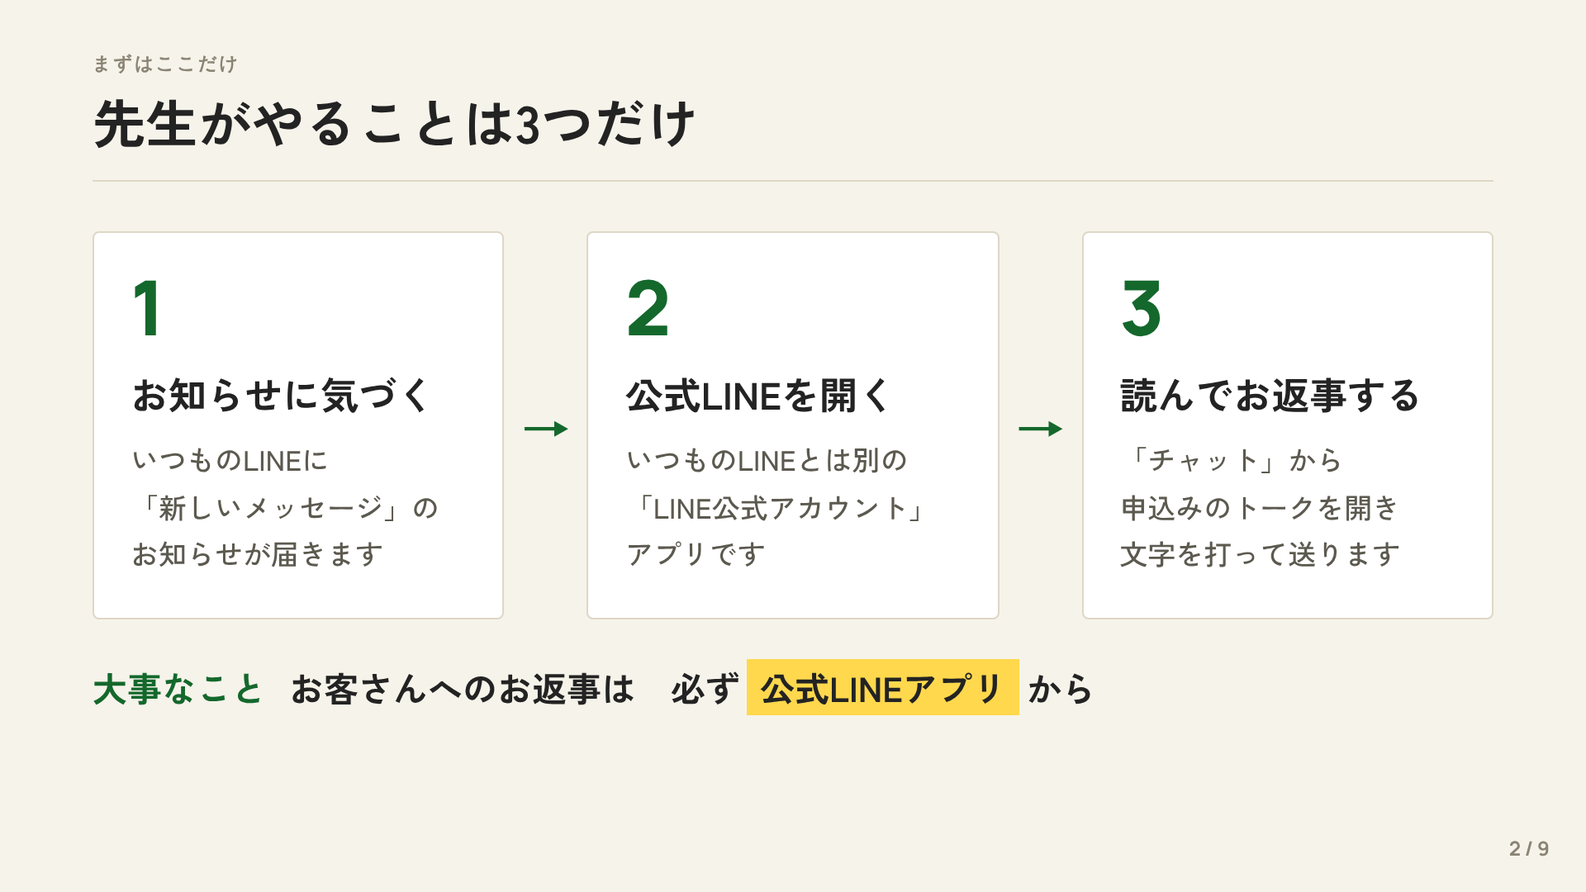
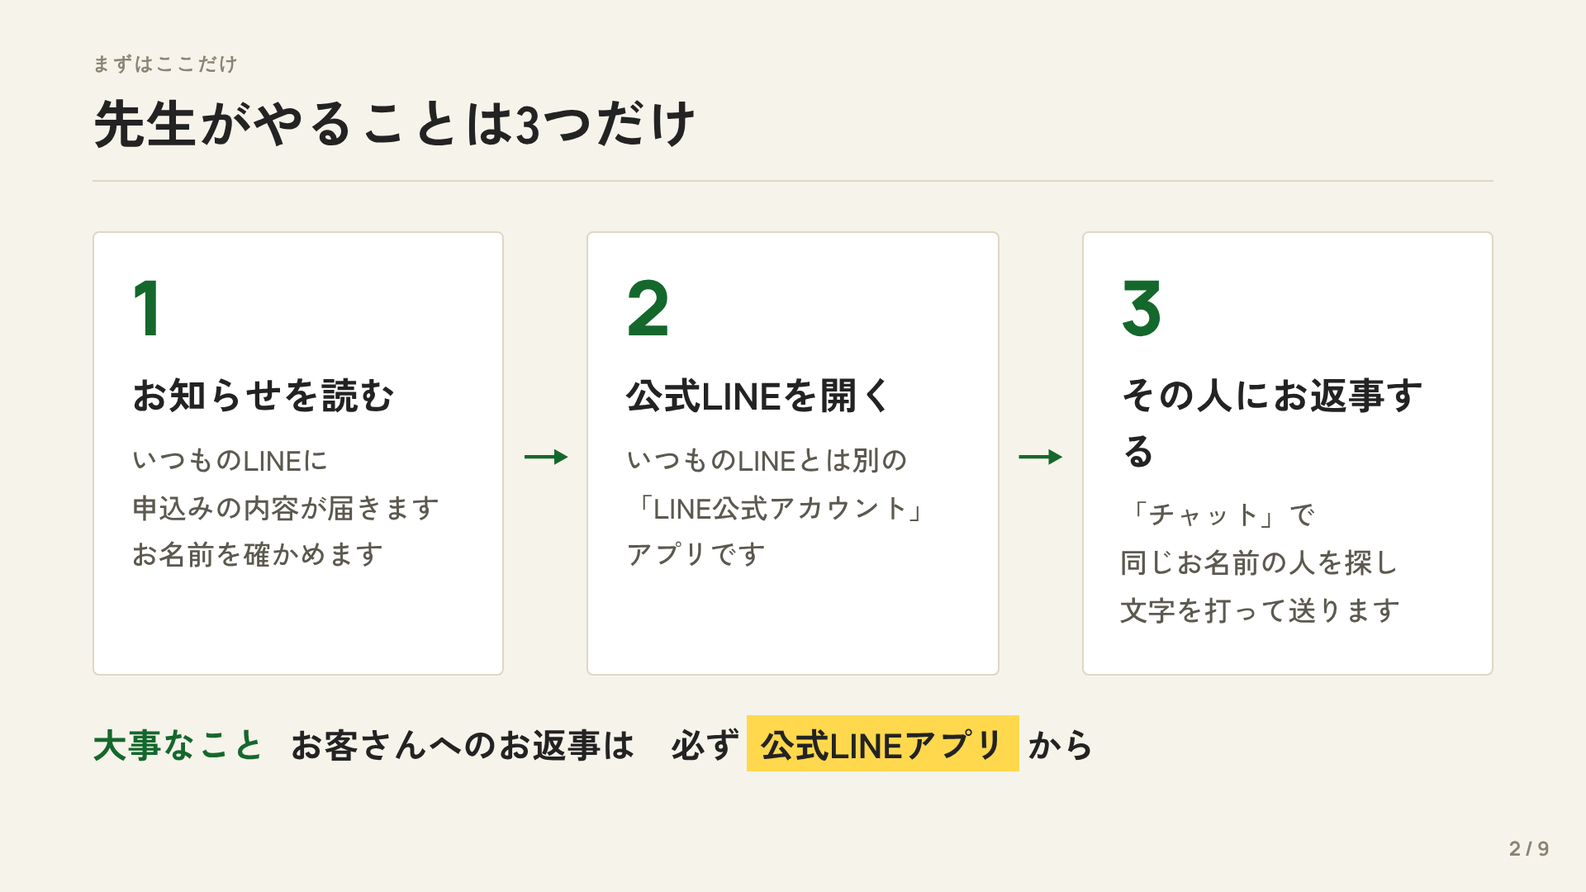
Update LINE guide to rich-menu and Google Form flow
Claude-Session: https://claude.ai/code/session_01Mzb1Hx17efy9YKD36c3ttC

diff --git a/slides/line-reply-guide.html b/slides/line-reply-guide.html
@@ -105,8 +105,8 @@
     <div style="display:flex;align-items:stretch;gap:10px">
       <div style="flex:1;background:var(--surface);border:1px solid var(--line);border-radius:var(--radius);padding:22px 22px 24px">
         <div style="font-family:var(--ff-en);font-weight:800;font-size:46px;color:var(--accent-deep);line-height:1">1</div>
-        <div style="font-size:23px;font-weight:700;margin:12px 0 8px;min-height:1.5em">お知らせに気づく</div>
-        <div style="font-size:17px;color:var(--sub);line-height:1.7">いつものLINEに<br>「新しいメッセージ」の<br>お知らせが届きます</div>
+        <div style="font-size:23px;font-weight:700;margin:12px 0 8px;min-height:1.5em">お知らせを読む</div>
+        <div style="font-size:17px;color:var(--sub);line-height:1.7">いつものLINEに<br>申込みの内容が届きます<br>お名前を確かめます</div>
       </div>
       <div style="display:flex;align-items:center;font-size:30px;color:var(--accent-deep);font-weight:700">→</div>
       <div style="flex:1;background:var(--surface);border:1px solid var(--line);border-radius:var(--radius);padding:22px 22px 24px">
@@ -117,8 +117,8 @@
       <div style="display:flex;align-items:center;font-size:30px;color:var(--accent-deep);font-weight:700">→</div>
       <div style="flex:1;background:var(--surface);border:1px solid var(--line);border-radius:var(--radius);padding:22px 22px 24px">
         <div style="font-family:var(--ff-en);font-weight:800;font-size:46px;color:var(--accent-deep);line-height:1">3</div>
-        <div style="font-size:23px;font-weight:700;margin:12px 0 8px;min-height:1.5em">読んでお返事する</div>
-        <div style="font-size:17px;color:var(--sub);line-height:1.7">「チャット」から<br>申込みのトークを開き<br>文字を打って送ります</div>
+        <div style="font-size:23px;font-weight:700;margin:12px 0 8px;min-height:1.5em">その人にお返事する</div>
+        <div style="font-size:17px;color:var(--sub);line-height:1.7">「チャット」で<br>同じお名前の人を探し<br>文字を打って送ります</div>
       </div>
     </div>
     <div style="display:flex;align-items:center;gap:14px;font-size:21px;font-weight:700">
@@ -132,26 +132,27 @@
 <!-- 3 全体の流れ：お客さん → 先生 -->
 <div class="s">
   <div class="hd"><div class="ki">ぜんたいの流れ</div><h2>お客さんの動きと先生の動き</h2><div class="rule"></div></div>
-  <div class="bd" style="padding-top:16px">
-    <div style="flex:1;display:grid;grid-template-columns:1fr 150px 1fr;grid-template-rows:30px repeat(7,40px);row-gap:7px;column-gap:0;font-size:17px;font-weight:700">
+  <div class="bd" style="padding-top:14px;padding-bottom:28px">
+    <div style="flex:1;display:grid;grid-template-columns:1fr 130px 1fr;grid-template-rows:26px repeat(8,36px);row-gap:6px;font-size:17px;font-weight:700">
       <div style="grid-column:1;grid-row:1;font-size:15px;color:var(--sub)">お客さん（スマホ）</div>
       <div style="grid-column:3;grid-row:1;font-size:15px;color:var(--accent-deep)">先生（スマホ）</div>
 
-      <div style="grid-column:1;grid-row:2;background:var(--surface);border:1px solid var(--line);border-radius:var(--radius);display:flex;align-items:center;padding:0 16px">ホームページを見る</div>
-      <div style="grid-column:1;grid-row:3;text-align:center;color:var(--dim);font-size:16px;line-height:40px">↓</div>
-      <div style="grid-column:1;grid-row:4;background:var(--surface);border:1px solid var(--line);border-radius:var(--radius);display:flex;align-items:center;padding:0 16px">教室の公式LINEを友だち追加</div>
-      <div style="grid-column:1;grid-row:5;text-align:center;color:var(--dim);font-size:16px;line-height:40px">↓</div>
-      <div style="grid-column:1;grid-row:6;background:var(--surface);border:1px solid var(--line);border-radius:var(--radius);display:flex;align-items:center;padding:0 16px">「体験を申し込む」ボタンを押す</div>
+      <div style="grid-column:1;grid-row:2;background:var(--surface);border:1px solid var(--line);border-radius:var(--radius);display:flex;align-items:center;gap:10px;padding:0 14px"><span style="font-family:var(--ff-en);color:var(--dim)">A</span>教室の公式LINEを友だち追加</div>
+      <div style="grid-column:1;grid-row:3;background:var(--surface);border:1px solid var(--line);border-radius:var(--radius);display:flex;align-items:center;gap:10px;padding:0 14px"><span style="font-family:var(--ff-en);color:var(--dim)">B</span>メニュー「最初のメッセージ」を押す</div>
+      <div style="grid-column:1;grid-row:4;background:var(--surface);border:1px solid var(--line);border-radius:var(--radius);display:flex;align-items:center;gap:10px;padding:0 14px"><span style="font-family:var(--ff-en);color:var(--dim)">C</span>メニュー「体験申込み」を押す</div>
+      <div style="grid-column:1;grid-row:5;background:var(--surface);border:1px solid var(--line);border-radius:var(--radius);display:flex;align-items:center;gap:10px;padding:0 14px"><span style="font-family:var(--ff-en);color:var(--dim)">D</span>申込みフォームに書いて送る</div>
 
-      <div style="grid-column:2;grid-row:6;display:flex;flex-direction:column;align-items:center;justify-content:center;color:var(--accent-deep);line-height:1.1">
-        <span style="font-size:13px">申込みが届く</span><span style="font-size:24px">→</span>
+      <div style="grid-column:2;grid-row:5;display:flex;flex-direction:column;align-items:center;justify-content:center;color:var(--accent-deep);line-height:1.1">
+        <span style="font-size:13px">申込みが届く</span><span style="font-size:22px">→</span>
       </div>
 
-      <div style="grid-column:3;grid-row:4;background:var(--accent-tint);border-radius:var(--radius);display:flex;align-items:center;gap:10px;padding:0 14px"><span class="no sm">1</span>いつものLINEにお知らせ</div>
-      <div style="grid-column:3;grid-row:5;background:var(--accent-tint);border-radius:var(--radius);display:flex;align-items:center;gap:10px;padding:0 14px"><span class="no sm">2</span>公式LINEアプリを開く</div>
-      <div style="grid-column:3;grid-row:6;background:var(--accent-tint);border-radius:var(--radius);display:flex;align-items:center;gap:10px;padding:0 14px"><span class="no sm">3</span>下の「チャット」を押す</div>
-      <div style="grid-column:3;grid-row:7;background:var(--accent-tint);border-radius:var(--radius);display:flex;align-items:center;gap:10px;padding:0 14px"><span class="no sm">4</span>申込みのトークを開く</div>
-      <div style="grid-column:3;grid-row:8;background:var(--accent-tint);border-radius:var(--radius);display:flex;align-items:center;gap:10px;padding:0 14px"><span class="no sm">5</span>お返事を書いて送る</div>
+      <div style="grid-column:3;grid-row:5;background:var(--accent-tint);border-radius:var(--radius);display:flex;align-items:center;gap:10px;padding:0 14px"><span class="no sm">1</span>いつものLINEにお知らせ</div>
+      <div style="grid-column:3;grid-row:6;background:var(--accent-tint);border-radius:var(--radius);display:flex;align-items:center;gap:10px;padding:0 14px"><span class="no sm">2</span>公式LINEアプリを開く</div>
+      <div style="grid-column:3;grid-row:7;background:var(--accent-tint);border-radius:var(--radius);display:flex;align-items:center;gap:10px;padding:0 14px"><span class="no sm">3</span>下の「チャット」を押す</div>
+      <div style="grid-column:3;grid-row:8;background:var(--accent-tint);border-radius:var(--radius);display:flex;align-items:center;gap:10px;padding:0 14px"><span class="no sm">4</span>同じお名前のトークを開く</div>
+      <div style="grid-column:3;grid-row:9;background:var(--accent-tint);border-radius:var(--radius);display:flex;align-items:center;gap:10px;padding:0 14px"><span class="no sm">5</span>お返事を書いて送る</div>
+
+      <div style="grid-column:1;grid-row:7 / span 3;font-size:15px;font-weight:500;color:var(--sub);line-height:1.7;align-self:center">B を押してもらうと<br>先生からお返事できるようになります</div>
     </div>
   </div>
   <div class="pn">3 / 9</div>
@@ -162,27 +163,28 @@
   <div class="hd"><div class="ki">参考 ／ お客さんの画面</div><h2>お客さんのスマホでの見え方</h2><div class="rule"></div></div>
   <div class="bd" style="gap:36px;align-items:center;justify-content:center;padding-top:12px">
     <div class="ann" style="width:270px">
-      <div class="it"><span class="no">1</span><div><div class="t">友だち追加すると<br>あいさつが自動で届く</div><div class="d">教室からの<br>最初のメッセージです</div></div></div>
-      <div class="it"><span class="no">2</span><div><div class="t">お客さんがボタンを押す</div><div class="d">文字を打たなくても<br>申込みができます</div></div></div>
+      <div class="it"><span class="no">1</span><div><div class="t">まず<br>「最初のメッセージ」</div><div class="d">押すと教室にひとこと届き<br>先生とやりとりできる<br>ようになります</div></div></div>
     </div>
     <div style="display:flex;flex-direction:column;align-items:center">
       <div class="phone"><div class="scr" data-swap="screens/04-customer.png">
         <div class="bar"></div>
         <div class="scr-hd">大館 からだの調律時間</div>
         <div class="chat">
-          <div class="bub">友だち追加ありがとうございます。体験のお申込みは、下のボタンを押してください。
-            <div style="margin-top:7px;border:1px solid var(--accent-deep);color:var(--accent-deep);text-align:center;padding:5px 0;border-radius:var(--radius);font-weight:700;position:relative">体験を申し込む</div>
-          </div>
-          <div class="bub me">体験に申し込みたいです</div>
+          <div class="bub">友だち追加ありがとうございます。下のメニューからどうぞ。</div>
+          <div class="bub me">よろしくお願いします</div>
         </div>
-        <span class="no sm tag" style="top:64px;right:6px">1</span>
-        <span class="no sm tag" style="top:166px;left:2px">2</span>
-        <span class="no sm tag" style="top:236px;left:14px">3</span>
+        <div style="display:grid;grid-template-columns:1fr 1fr;height:84px;border-top:1px solid var(--line)">
+          <div style="display:flex;align-items:center;justify-content:center;text-align:center;font-weight:700;font-size:12px;line-height:1.4;border-right:1px solid var(--line);background:var(--accent-tint)">最初の<br>メッセージ</div>
+          <div style="display:flex;align-items:center;justify-content:center;text-align:center;font-weight:700;font-size:12px;line-height:1.4">体験<br>申込み</div>
+        </div>
+        <span class="no sm tag" style="bottom:58px;left:6px">1</span>
+        <span class="no sm tag" style="bottom:58px;right:6px">2</span>
       </div></div>
       <div class="demo">※ 画面はイメージ・文面は仮です</div>
     </div>
     <div class="ann" style="width:270px">
-      <div class="it"><span class="no">3</span><div><div class="t">この一言が<br>先生に届きます</div><div class="d">これが「体験の申込み」の<br>合図です</div></div></div>
+      <div class="it"><span class="no">2</span><div><div class="t">次に「体験申込み」</div><div class="d">申込みフォームが開きます</div></div></div>
+      <div class="it"><span class="no">3</span><div><div class="t">フォームを送ると<br>先生にお知らせが届く</div><div class="d">これが「体験の申込み」の<br>合図です</div></div></div>
     </div>
   </div>
   <div class="pn">4 / 9</div>
@@ -190,30 +192,27 @@
 
 <!-- 5 STEP1 お知らせ -->
 <div class="s">
-  <div class="hd"><div class="ki"><b>STEP 1</b>　お知らせに気づく</div><h2>いつものLINEに届くお知らせ</h2><div class="rule"></div></div>
+  <div class="hd"><div class="ki"><b>STEP 1</b>　お知らせを読む</div><h2>いつものLINEに届く申込みのお知らせ</h2><div class="rule"></div></div>
   <div class="bd" style="gap:36px;align-items:center;justify-content:center;padding-top:12px">
     <div class="ann" style="width:270px">
-      <div class="it"><span class="no">1</span><div><div class="t">「LINE公式アカウント」<br>からのお知らせ</div><div class="d">申込みがあると<br>ここにトークが届きます</div></div></div>
+      <div class="it"><span class="no">1</span><div><div class="t">申込みの内容が届く</div><div class="d">お名前・希望のクラスなどが<br>書かれています</div></div></div>
+      <div class="it"><span class="no">2</span><div><div class="t">LINEのお名前を<br>覚えておく</div><div class="d">STEP 3 でこの名前を<br>探します</div></div></div>
     </div>
     <div style="display:flex;flex-direction:column;align-items:center">
       <div class="phone"><div class="scr" data-swap="screens/05-notice.png">
         <div class="bar"></div>
-        <div class="scr-hd">トーク</div>
-        <div style="flex:1;display:flex;flex-direction:column">
-          <div style="display:flex;gap:8px;align-items:center;padding:10px 10px;border-bottom:1px solid var(--line);background:var(--accent-tint)">
-            <span style="width:30px;height:30px;border-radius:50%;background:var(--accent);flex:none"></span>
-            <div style="flex:1;min-width:0"><div style="font-weight:700;font-size:12px">LINE公式アカウント</div><div style="color:var(--sub);font-size:12px;line-height:1.4">新しいメッセージが届いています</div></div>
-          </div>
-          <div style="display:flex;gap:8px;align-items:center;padding:10px;border-bottom:1px solid var(--line)"><span style="width:30px;height:30px;border-radius:50%;background:var(--line);flex:none"></span><div style="flex:1"><div style="height:8px;width:60%;background:var(--line);border-radius:var(--radius)"></div><div style="height:8px;width:85%;background:var(--line);border-radius:var(--radius);margin-top:6px"></div></div></div>
-          <div style="display:flex;gap:8px;align-items:center;padding:10px;border-bottom:1px solid var(--line)"><span style="width:30px;height:30px;border-radius:50%;background:var(--line);flex:none"></span><div style="flex:1"><div style="height:8px;width:50%;background:var(--line);border-radius:var(--radius)"></div><div style="height:8px;width:75%;background:var(--line);border-radius:var(--radius);margin-top:6px"></div></div></div>
+        <div class="scr-hd">申込みのお知らせ</div>
+        <div class="chat">
+          <div class="bub" style="max-width:92%">【体験の申込み】<br>お名前：大館 花子<br>LINEの名前：はなこ<br>希望：木曜 13:30</div>
         </div>
-        <span class="no sm tag" style="top:36px;right:6px">1</span>
+        <div style="height:46px;border-top:1px solid var(--line)"></div>
+        <span class="no sm tag" style="top:60px;right:4px">1</span>
+        <span class="no sm tag" style="top:112px;right:4px">2</span>
       </div></div>
       <div class="demo">※ 画面はイメージ・文面は仮です</div>
     </div>
     <div class="ann" style="width:270px">
-      <div class="it"><span class="no">2</span><div><div class="t">ここは「お知らせ」だけ</div><div class="d">ここに返事を書いても<br>お客さんには届きません</div></div></div>
-      <div class="it"><span class="no">3</span><div><div class="t">気づいたら STEP 2 へ</div><div class="d">公式LINEアプリを開きます</div></div></div>
+      <div class="it"><span class="no">3</span><div><div class="t">ここは「お知らせ」だけ</div><div class="d">ここに返事を書いても<br>お客さんには届きません</div></div></div>
     </div>
   </div>
   <div class="pn">5 / 9</div>
@@ -236,7 +235,7 @@
         <svg width="64" height="64" viewBox="0 0 64 64" style="flex:none"><rect width="64" height="64" rx="14" fill="var(--accent)"/><g transform="translate(16 16)" fill="none" stroke="#fff" stroke-width="2" stroke-linecap="round" stroke-linejoin="round"><svg width="32" height="32" viewBox="0 0 24 24"><path d="M7.9 20A9 9 0 1 0 4 16.1L2 22Z"/><path d="M9 10h6"/><path d="M12 7v6"/></svg></g></svg>
         <div><div style="font-size:15px;color:var(--accent-on-dark);font-weight:700">教室用</div><div style="font-size:26px;font-weight:700">LINE公式アカウント</div></div>
       </div>
-      <div style="font-size:18px;line-height:1.8">・教室としてのやりとり<br>・申込みの<b>中身</b>を読む</div>
+      <div style="font-size:18px;line-height:1.8">・お客さんとのトーク<br>・申込んだ人を<b>探して</b>お返事</div>
       <div style="font-size:19px;font-weight:700;color:var(--accent-on-dark);border-top:1px solid var(--line-on-dark);padding-top:14px">◯　お返事はこちらから</div>
     </div>
   </div>
@@ -246,11 +245,11 @@
 
 <!-- 7 STEP3・4 チャット → トーク -->
 <div class="s">
-  <div class="hd"><div class="ki"><b>STEP 3・4</b>　チャットを開く</div><h2>「チャット」から申込みのトークへ</h2><div class="rule"></div></div>
+  <div class="hd"><div class="ki"><b>STEP 3・4</b>　申込んだ人を探す</div><h2>「チャット」で同じお名前を探す</h2><div class="rule"></div></div>
   <div class="bd" style="gap:36px;align-items:center;justify-content:center;padding-top:12px">
     <div class="ann" style="width:270px">
       <div class="it"><span class="no">1</span><div><div class="t">いちばん下の<br>「チャット」を押す</div><div class="d">お客さんとのトークが<br>ならんでいます</div></div></div>
-      <div class="it"><span class="no">2</span><div><div class="t">印のついた人を押す</div><div class="d">まだ読んでいないトークに<br>緑の丸がつきます</div></div></div>
+      <div class="it"><span class="no">2</span><div><div class="t">お知らせと同じ<br>お名前の人を押す</div></div></div>
     </div>
     <div style="display:flex;flex-direction:column;align-items:center">
       <div class="phone"><div class="scr" data-swap="screens/07-chat-list.png">
@@ -259,8 +258,7 @@
         <div style="flex:1;display:flex;flex-direction:column">
           <div style="display:flex;gap:8px;align-items:center;padding:10px;border-bottom:1px solid var(--line);background:var(--accent-tint)">
             <span style="width:30px;height:30px;border-radius:50%;background:var(--line);flex:none"></span>
-            <div style="flex:1;min-width:0"><div style="font-weight:700;font-size:12px">Aさん</div><div style="color:var(--sub);font-size:12px;line-height:1.4">体験に申し込みたいです</div></div>
-            <span style="width:10px;height:10px;border-radius:50%;background:var(--accent);flex:none"></span>
+            <div style="flex:1;min-width:0"><div style="font-weight:700;font-size:12px">はなこ</div><div style="color:var(--sub);font-size:12px;line-height:1.4">よろしくお願いします</div></div>
           </div>
           <div style="display:flex;gap:8px;align-items:center;padding:10px;border-bottom:1px solid var(--line)"><span style="width:30px;height:30px;border-radius:50%;background:var(--line);flex:none"></span><div style="flex:1"><div style="height:8px;width:55%;background:var(--line);border-radius:var(--radius)"></div><div style="height:8px;width:80%;background:var(--line);border-radius:var(--radius);margin-top:6px"></div></div></div>
           <div style="display:flex;gap:8px;align-items:center;padding:10px;border-bottom:1px solid var(--line)"><span style="width:30px;height:30px;border-radius:50%;background:var(--line);flex:none"></span><div style="flex:1"><div style="height:8px;width:45%;background:var(--line);border-radius:var(--radius)"></div><div style="height:8px;width:70%;background:var(--line);border-radius:var(--radius);margin-top:6px"></div></div></div>
@@ -277,7 +275,7 @@
       <div class="demo">※ 画面はイメージです</div>
     </div>
     <div class="ann" style="width:270px">
-      <div class="it"><span class="no">3</span><div><div class="t">最初の一言で<br>申込みだと分かります</div><div class="d">「体験に申し込みたいです」<br>と書かれています</div></div></div>
+      <div class="it"><span class="no">3</span><div><div class="t">「最初のメッセージ」が<br>目じるし</div><div class="d">「よろしくお願いします」<br>などのひとことが見えます</div></div></div>
     </div>
   </div>
   <div class="pn">7 / 9</div>
@@ -294,10 +292,10 @@
     <div style="display:flex;flex-direction:column;align-items:center">
       <div class="phone"><div class="scr" data-swap="screens/08-reply.png">
         <div class="bar"></div>
-        <div class="scr-hd">Aさん</div>
+        <div class="scr-hd">はなこ</div>
         <div class="chat">
-          <div class="bub">体験に申し込みたいです</div>
-          <div class="bub me">お申込みありがとうございます。ご希望の曜日を…</div>
+          <div class="bub">よろしくお願いします</div>
+          <div class="bub me">体験のお申込みありがとうございます。木曜のクラスで…</div>
         </div>
         <div style="height:46px;border-top:1px solid var(--line);display:flex;align-items:center;gap:6px;padding:0 8px">
           <div style="flex:1;border:1px solid var(--line);border-radius:var(--radius);padding:6px 8px;color:var(--dim);font-size:12px">メッセージを入力</div>
@@ -310,7 +308,7 @@
     </div>
     <div style="width:320px;background:var(--surface);border:1px solid var(--line);border-radius:var(--radius);padding:20px 22px">
       <div style="font-size:15px;font-weight:700;color:var(--accent-deep);margin-bottom:10px">お返事の例</div>
-      <div style="font-size:17px;line-height:1.85">お申込みありがとうございます。<br>講師の松田です。<br>ご希望の曜日とクラスを<br>お知らせください。<br>当日お会いできるのを<br>楽しみにしています。</div>
+      <div style="font-size:17px;line-height:1.85">体験のお申込み<br>ありがとうございます。<br>講師の松田です。<br>〇曜日のクラスで<br>お待ちしています。</div>
       <div style="font-size:14px;color:var(--sub);margin-top:12px;border-top:1px solid var(--line);padding-top:10px">言葉はご自分のものに変えて大丈夫です</div>
     </div>
   </div>
@@ -326,12 +324,12 @@
       <div style="font-size:17px;line-height:1.7;color:var(--sub)">スマホの「設定」で、LINEと公式LINEアプリの<br>通知がオンになっているか確かめます</div>
     </div>
     <div style="display:grid;grid-template-columns:300px 1fr;gap:24px;padding:16px 0;border-bottom:1px solid var(--line);align-items:baseline">
-      <div style="font-size:20px;font-weight:700">いつものLINEで<br>返事をしてしまった</div>
-      <div style="font-size:17px;line-height:1.7;color:var(--sub)">お客さんには届いていません。<br>公式LINEアプリから送り直せば大丈夫です</div>
+      <div style="font-size:20px;font-weight:700">チャットにお名前が<br>見つからない</div>
+      <div style="font-size:17px;line-height:1.7;color:var(--sub)">「最初のメッセージ」が押されていないと<br>トークが出てきません。下の連絡先へご相談ください</div>
     </div>
     <div style="display:grid;grid-template-columns:300px 1fr;gap:24px;padding:16px 0;border-bottom:1px solid var(--line);align-items:baseline">
-      <div style="font-size:20px;font-weight:700">何と書けばいいか迷う</div>
-      <div style="font-size:17px;line-height:1.7;color:var(--sub)">8枚目の「お返事の例」を<br>そのまま打てば大丈夫です</div>
+      <div style="font-size:20px;font-weight:700">いつものLINEで<br>返事をしてしまった</div>
+      <div style="font-size:17px;line-height:1.7;color:var(--sub)">お客さんには届いていません。<br>公式LINEアプリから送り直せば大丈夫です</div>
     </div>
     <div style="margin-top:20px;margin-right:100px;border:1px dashed var(--line);border-radius:var(--radius);padding:14px 20px;background:var(--bg);display:flex;gap:18px;align-items:center">
       <div style="font-family:var(--ff-en);font-size:11px;letter-spacing:.14em;color:var(--dim)">TO BE FILLED</div>
